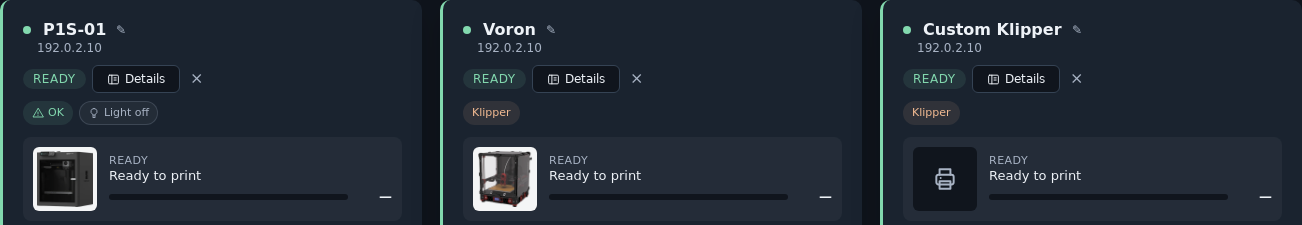
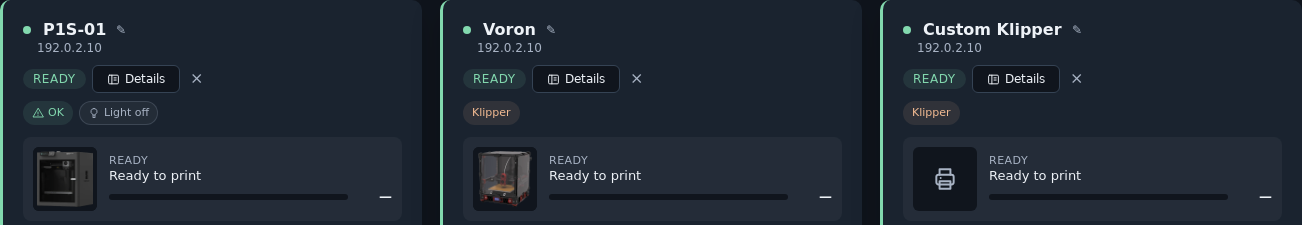
Remove light printer picture backgrounds in dark mode

Changed region(s): [[0.3379, 0.6533, 0.4301, 0.9644], [0.0, 0.9022, 0.0922, 0.9644], [0.0, 0.6533, 0.0922, 0.6844]]

diff --git a/templates/dashboard.html b/templates/dashboard.html
@@ -3923,6 +3923,7 @@
         .pc-thumb .pc-thumb-icon { width: 26px; height: 26px; opacity: 0.45; }
         .pc-thumb img { position: absolute; inset: 0; width: 100%; height: 100%; object-fit: contain; background: var(--bg); }
         .pc-thumb .pc-printer-picture { padding: 4px; background: #f4f5f6; }
+        :root:not([data-theme="light"]) .pc-thumb .pc-printer-picture { background: var(--bg); }
         .pc-job-info { flex: 1; min-width: 0; }
         .pc-job-label { font-size: 11px; color: var(--text-muted); text-transform: uppercase; letter-spacing: 0.5px; }
         .pc-job-name { font-size: 13px; font-weight: 500; margin: 1px 0 6px; white-space: nowrap; overflow: hidden; text-overflow: ellipsis; }

diff --git a/CHANGELOG.md b/CHANGELOG.md
@@ -5,6 +5,11 @@ changes to The Print Farm.
 
 ## Unreleased
 
+### Fixed
+
+- **Printer pictures blend into dark cards.** Removed the light picture backdrop
+  in dark mode, keeping the transparent model images on the thumbnail’s dark surface.
+
 ### Added
 
 - **Model pictures on idle printer cards.** Recognised Bambu and Voron printers
